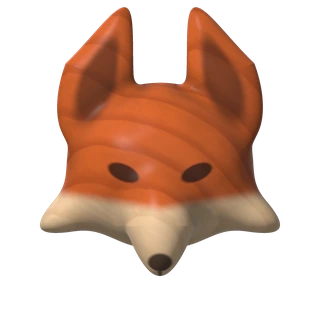
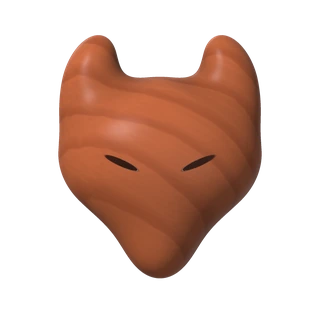
狐とガチョウ: オーク材の駒をより抽象的な木の駒に（桜材の狐の形・白木のドームにくるみの象嵌のガチョウ）
Claude-Session: https://claude.ai/code/session_01EiWRAZQof2qofnKntpRWhP

Changed region(s): [[0.125, 0.0, 0.875, 0.875], [0.5938, 0.3438, 0.6562, 0.4062], [0.4688, 0.375, 0.5, 0.4062]]

diff --git a/foxgeese/tools/art-pieces.js b/foxgeese/tools/art-pieces.js
@@ -78,44 +78,43 @@ vec3 wood3(vec3 p, vec3 a, vec3 b, float f, float seed){
 #define CARVED
 vec3 bendN(vec3 p, vec3 n){ vec3 c = p * 7.; vec3 g = vec3(vn3(c + 1.7) - .5, vn3(c + 7.3) - .5, vn3(c + 3.1) - .5); return normalize(n + g * .28); }
 `;
-  P['wood-f'] = { glsl: CARVED + WOOD3 + `
-float map(vec3 p){ return foxHead(FX(p)) * 1.04; }
-void mat(vec3 p, vec3 n, inout PMat m){
-  vec3 q = FX(p);
-  vec3 c = wood3(q, hexc(214., 100., 42.), hexc(160., 62., 22.), 6., 2.7);
-  float muz = smoothstep(-.04, .04, q.y - (.2 - .16 * abs(q.x)));   // the lower face: muzzle and cheek ruffs
-  c = mix(c, wood3(q, hexc(240., 212., 170.), hexc(214., 180., 132.), 6., 2.7), clamp(muz, 0., 1.) * .85);   // the pale muzzle and cheeks (left unstained)
-  float burn = 0.;
-  burn = max(burn, smoothstep(.15, -.15, foxEye(q.xy)));
-  burn = max(burn, smoothstep(.2, -.2, foxNose(q)) * step(.35, q.z));
-  burn = max(burn, smoothstep(.25, -.25, earIn(q.xy)) * .75);
-  burn = max(burn, smoothstep(.016, .0, abs(q.x) - .004) * step(.56, q.y) * step(q.y, .66) * .9);
-  c = mix(c, hexc(44., 20., 10.), burn * .92);
-  m.alb = c; m.spec = .45; m.gloss = .4;
-}` };
-  P['wood-g'] = { glsl: CARVED + WOOD3 + `
-float coneW(vec3 p, vec3 a, vec3 b, float r1, float r2){ vec3 ba = b - a, pa = p - a; float h = clamp(dot(pa, ba) / dot(ba, ba), 0., 1.); return length(pa - ba * h) - mix(r1, r2, h); }
-float billD(vec3 p){ vec3 q = p; q.x *= .85; q.z *= 1.5; return coneW(q, vec3(0., .1, .48), vec3(0., .36, .48), .2, .13); }   // a broad bill, tapering down the face
-float gHead(vec3 p){
-  float d = sdEll(p - vec3(0., -.06, -.1), vec3(.64, .6, .46));
-  d = smin(d, sdEll(p - vec3(0., -.6, -.06), vec3(.09, .12, .1)), .1);              // a small tuft on top
-  d = smin(d, billD(p), .1);
+  
+  
+  // wood v4 (2026-11-18 user: もう少しアブストラクトに): sanded wooden toys reduced to their shapes — the fox a smooth cherry head of
+  // three soft points (two ears and the chin) with two cut slits for eyes; the goose a maple dome with a walnut bill set in
+  P['wood-f'] = { glsl: WOOD3 + `
+float fShape(vec3 p){
+  float d = sdEll(p - vec3(0., -.04, -.06), vec3(.66, .5, .42));
+  d = smin(d, sdEll(p - vec3(0., .56, -.08), vec3(.17, .2, .2)), .42);                // the chin
+  vec3 q = p; q.x = abs(q.x); q -= vec3(.46, -.52, -.08); q.xy = rot(-.3) * q.xy;
+  d = smin(d, sdEll(q, vec3(.17, .3, .16)), .2);                                          // the ears
+  vec2 e = vec2(abs(p.x) - .25, p.y - .02); e = rot(-.42) * e;                             // two slits cut for the eyes
+  d = max(d, -(length(e / vec2(.12, .022)) - 1.) * .022 - (p.z > .2 ? 0. : 1.));
   return d;
 }
-float map(vec3 p){ return gHead(p * 1.06) / 1.06; }
+float map(vec3 p){ return fShape(p * 1.04) / 1.04; }
+void mat(vec3 p, vec3 n, inout PMat m){
+  vec3 q = p * 1.04;
+  vec3 c = wood3(q, hexc(198., 104., 62.), hexc(150., 66., 34.), 5., 2.7);
+  vec2 e = vec2(abs(q.x) - .25, q.y - .02); e = rot(-.42) * e;
+  c = mix(c, hexc(70., 32., 14.), smoothstep(.15, -.1, length(e / vec2(.12, .022)) - 1.) * .8);
+  m.alb = c; m.spec = .45; m.gloss = .5;
+}` };
+  P['wood-g'] = { glsl: WOOD3 + `
+float triD(vec2 p){   // a rounded triangle pointing down (the bill, inlaid)
+  const float k = 1.7320508; p.x = abs(p.x) - .16; p.y = p.y + .16 / k;
+  if (p.x + k * p.y > 0.) p = vec2(p.x - k * p.y, -k * p.x - p.y) / 2.;
+  p.x -= clamp(p.x, -.32, 0.); return -length(p) * sign(p.y) - .03;
+}
+float map(vec3 p){ vec3 q = p * 1.06; q.x *= 1. + max(q.y, 0.) * .12; return sdEll(q - vec3(0., -.04, -.1), vec3(.7, .66, .5)) / 1.06; }
 void mat(vec3 p, vec3 n, inout PMat m){
   vec3 q = p * 1.06;
-  vec3 c = wood3(q, hexc(240., 220., 186.), hexc(214., 188., 146.), 8., 1.3);
-  float bill = smoothstep(.03, -.01, billD(q));
-  c = mix(c, hexc(232., 136., 44.) * (.9 + .15 * vn3(q * 20.)), bill * .9);           // painted bill (the grain shows through)
-  vec2 e = vec2(abs(q.x) - .26, q.y + .08);
-  float eye = smoothstep(.02, -.02, length(e / vec2(.075, .085)) - 1.);
-  c = mix(c, hexc(36., 22., 12.), eye * .95);
-  c = mix(c, hexc(255., 240., 220.), smoothstep(.02, -.02, length((e - vec2(-.02, -.03)) / .025) - 1.) * eye);   // a glint
-  c = mix(c, hexc(150., 70., 20.), smoothstep(.014, .0, abs(q.y - .3)) * bill * .55 * step(abs(q.x), .14));   // the carved line where the bill closes
-  c = mix(c, hexc(170., 84., 26.), smoothstep(.05, .0, length((q.xy - vec2(0., .44)) / vec2(.1, .06)) - 1.) * bill * .6);   // the darker nail at the tip
-  c = mix(c, hexc(230., 150., 130.), smoothstep(.2, .0, length((vec2(abs(q.x) - .42, q.y - .12)) / vec2(.12, .07)) - 1.) * .25);   // a faint blush of red ochre
-  m.alb = c; m.spec = .45; m.gloss = .4;
+  vec3 c = wood3(q, hexc(240., 222., 190.), hexc(216., 192., 150.), 7., 1.3);
+  vec3 wal = wood3(q * 1.6, hexc(112., 70., 40.), hexc(66., 40., 20.), 10., 4.);
+  float bl = smoothstep(.012, -.004, triD(vec2(q.x, q.y - .2)));
+  float ey = smoothstep(.012, -.004, length(vec2(abs(q.x) - .25, q.y + .06)) - .055);
+  float k = max(bl, ey);
+  m.alb = mix(c, wal, k); m.spec = .45; m.gloss = .5 + k * .1;
 }` };
   // ---------------------------------------------------------------- side view (2026-11-18 v2: the user wanted the wooden and the luxury
   // pieces as figures seen from the side): the figure stands on a round plinth, facing right; the camera looks slightly down.

diff --git a/foxgeese/index.html b/foxgeese/index.html
@@ -858,7 +858,7 @@ html[data-pcs=lux] .pc.p1{width:calc(var(--cell) * 1.14);height:calc(var(--cell)
 html[data-pcs=lux] .pc.p2{width:calc(var(--cell) * .92);height:calc(var(--cell) * .92);margin:calc(var(--cell) * -.736) 0 0 calc(var(--cell) * -.46);z-index:calc(2 + var(--zr, 0) * 2)}
 html[data-pcs=lux] .pc.sel{z-index:30}
 /* piece sets: rendered from above (tools/art-pieces.js) — --pcB the fox, --pcW a goose */
-html[data-pcs=wood]{--pcB:url(img/2d/pc-wood-f.webp?v=3);--pcW:url(img/2d/pc-wood-g.webp?v=3)}
+html[data-pcs=wood]{--pcB:url(img/2d/pc-wood-f.webp?v=4);--pcW:url(img/2d/pc-wood-g.webp?v=4)}
 html[data-pcs=bauhaus]{--pcB:url(img/2d/pc-bauhaus-f.webp?v=2);--pcW:url(img/2d/pc-bauhaus-g.webp?v=2)}
 html[data-pcs=cute]{--pcB:url(img/2d/pc-cute-f.webp?v=2);--pcW:url(img/2d/pc-cute-g.webp?v=2)}
 html[data-pcs=lux]{--pcB:url(img/2d/pc-lux-f.webp?v=2);--pcW:url(img/2d/pc-lux-g.webp?v=2)}
@@ -1386,7 +1386,7 @@ html[data-bd=meadow] .reserve .rsv-plate.rsv-q.lo b, html[data-bd=bauhaus] .rese
 <script src="coach.js?v=5"></script>
 <script src="coach-i18n.js?v=6"></script>
 <script src="../shared/export.js?v=9l14"></script>
-<script src="../shared/proset.js?v=5t2svhxbf-sp2-pd1p"></script><script src="../shared/luxintro.js?v=3"></script><script src="app.js?v=14"></script><script src="uitheme.js?v=3"></script>
+<script src="../shared/proset.js?v=5t2svhxbf-sp2-pd1p"></script><script src="../shared/luxintro.js?v=3"></script><script src="app.js?v=15"></script><script src="uitheme.js?v=3"></script>
 <script src="online-ui.js?v=2"></script>
 <!-- World Board Game Atlas portal skin: konane/?skin=atlas — 3D boards (a koa tray with the Hawaiian quilt / a rough basalt papamū with pecked cups), coral and basalt pebbles, guide speech bubbles, portal look (all features kept) -->
 <script>

diff --git a/foxgeese/app.js b/foxgeese/app.js
@@ -968,7 +968,7 @@ const BD_KEYS = ['meadow', 'oak', 'bauhaus', 'lux', 'norse', 'delft'], PC_KEYS =
 // where the board's point is in each piece picture (0.5 = the middle: seen from above; the figures seen from the side stand on a plinth)
 const ANCHOR = { lux: .8 };   // (wood: front-facing carved faces again since v3, 2026-11-18)
 const BD_OLD = { slate: 'norse', linen: 'delft', night: 'lux', paper: 'bauhaus' }, PC_OLD = { marble: 'lux', pewter: 'norse', paint: 'bauhaus' };
-const ART = (k, v) => `img/2d/${k}.webp?v=${v || 3}`;
+const ART = (k, v) => `img/2d/${k}.webp?v=${v || 4}`;
 // [frame colour behind the mini boards]
 const BD_PAL = { meadow: ['#e2c79c'], oak: ['#4a2e18'], bauhaus: ['#262628'], lux: ['#1a0f08'], norse: ['#5c5850'], delft: ['#2a1d14'] };
 function designApply() {

diff --git a/claude/foxgeese-spec.md b/claude/foxgeese-spec.md
@@ -88,7 +88,7 @@ URL: https://core-calmdust.github.io/aicoding/foxgeese/ （cat: hist＝ヒスト
 ## 画面（latrunculi/ から派生）
 - **2D の盤6種・駒6種（2026-11-18 作り直し、同日 v2 で調整）**。絵は `tools/gen_art2.py`（`tools/art.html` を headless Chrome で描く GLSL。`art-lib.js`＝ノイズ・盤の線・ライティング、`art-boards.js`＝盤と枠、`art-pieces.js`＝駒（SDF のレイマーチ。真上から見た駒と、横から見た台座付きの像）。可愛い盤・駒とデルフトの絵柄は SVG をテクスチャにする）→ `img/2d/`（`?v=2`）。**盤の絵に線と点が焼き込んである**ので、ページの線のレイヤー（.grv・.pt・.off）は隠し、座標の文字だけ出す。盤 1536px・枠のタイル 512px（継ぎ目なし）・駒 320px。並びと保存キー（settings.bd / settings.pcs）：
   - 盤 `meadow` ひだまり牧場（**既定・先頭**。十字の芝生にステッチの縁、クリーム色の小道と飛び石、四隅に狐の巣穴・りんごの木・池・ガチョウ小屋）・`oak` オーク材（板はぎの無垢板、焼きごての V 溝の線とドリルの穴。v2 で節の楕円を弱めた）・`bauhaus` アブストラクト（紙に黒インクの細線、四隅に色面と幾何学図形）・`lux` 黒大理石と金（金の象嵌の線と金鋲、四隅にアールデコの扇）・`norse` 北欧の石盤（十字が一段高い磨き石、つつき彫りの溝と杯状穴、四隅に岩刻と地衣類。v2 で枠も石に）・`delft` デルフト焼き（白釉にコバルトの筆描き、四隅のメダイヨンに狐・風車・ガチョウ・チューリップ。v2 で釉の光沢と窓の映り込み）。
-  - 駒 `cute` きつね＆がちょう（既定）・`wood` 木彫り（**正面向きの顔**（2026-11-18 v3、横向きの像からユーザーの希望で戻した）：赤橙に染めた狐の顔、白木のガチョウの顔に塗りのくちばし。のみ跡と焼きごての目）・`bauhaus` カラーブロック・`lux` 金と大理石（**横向き・面取りのローポリ彫刻**：金の狐（ルビーの目）と白大理石のガチョウ（金のくちばし）、オニキスと金の台座）・`norse` 骨と琥珀（骨のドームに彫りの輪1本。琥珀の狐は耳と細い顎だけの抽象形）・`delft` 染付。
+  - 駒 `cute` きつね＆がちょう（既定）・`wood` 木の駒（2026-11-18 v4、ユーザー：もう少しアブストラクトに：磨いた桜材の狐（耳2つと顎の3点だけの形、目は切り込み）、白木のドームのガチョウ（くるみ材の三角のくちばしと目を象嵌））・`bauhaus` カラーブロック・`lux` 金と大理石（**横向き・面取りのローポリ彫刻**：金の狐（ルビーの目）と白大理石のガチョウ（金のくちばし）、オニキスと金の台座）・`norse` 骨と琥珀（骨のドームに彫りの輪1本。琥珀の狐は耳と細い顎だけの抽象形）・`delft` 染付。
   - **横向きの像（lux）**：絵の上から80%（app.js の `ANCHOR`）が盤の点＝台座の中心。CSS で大きさと位置（狐 1.14 マス・ガチョウ .92 マス）、行が下の駒ほど手前（`--zr`＝行、placeAt が入れる）。ミニ盤・駒の見本も ANCHOR で置く。
   - 新しい既定は `settings.dv = 2`。dv のない保存（旧既定のまま）は一度だけ meadow / cute に切り替える。旧キーの読み替え：盤 slate→norse・linen→delft・night→lux・paper→bauhaus、駒 marble→lux・pewter→norse・paint→bauhaus。
   - 3D 盤（atlas/models/foxgeese.js）は**旧来の** `img/bd-*.webp`・`fr-*.webp` を使い続ける（3D は後日作り直し）。
